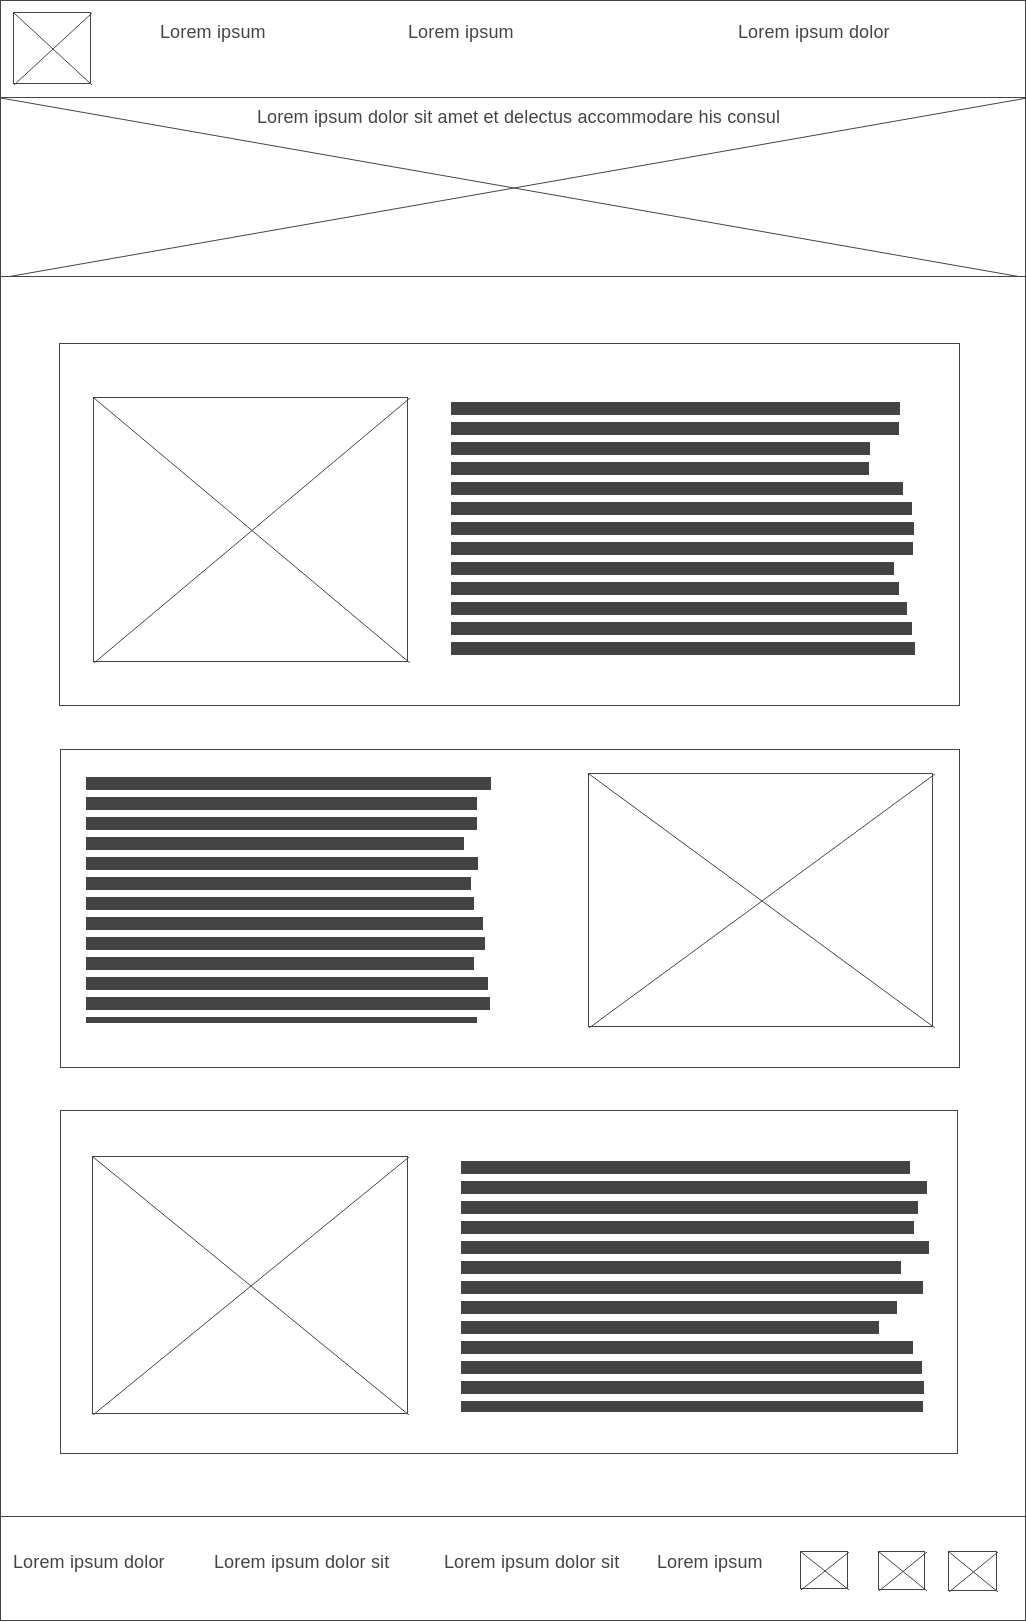
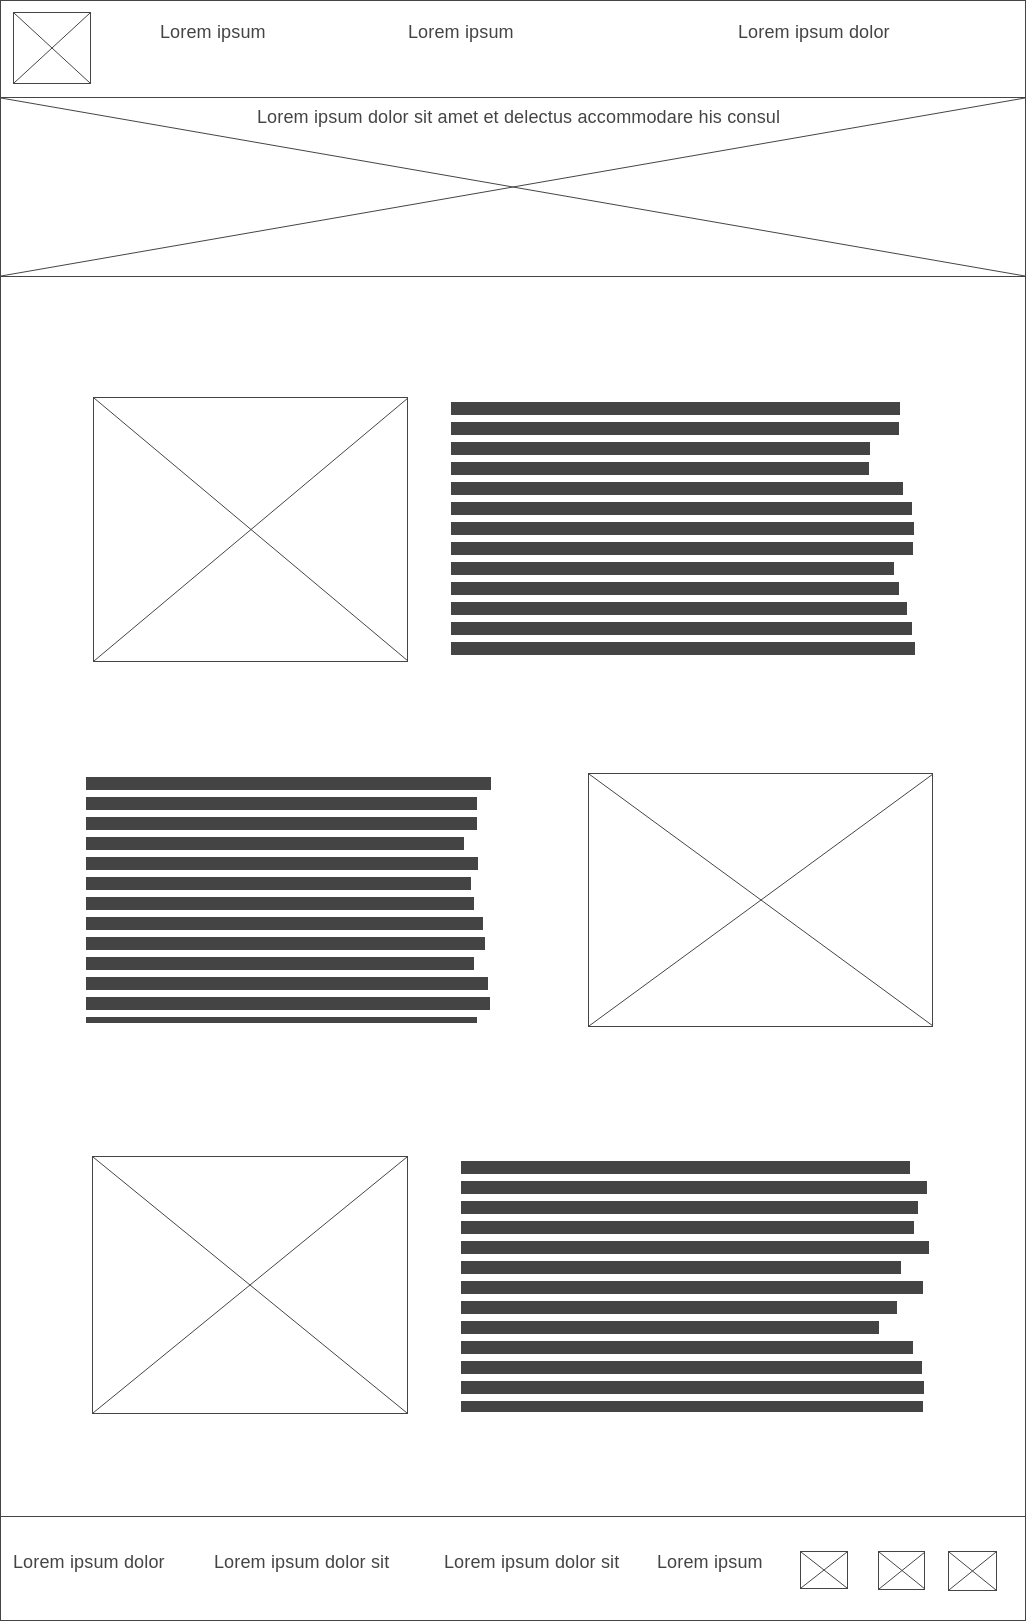
Uploading final changes

Changed region(s): [[0.5302, 0.0925, 0.5614, 0.1233], [0.4366, 0.0925, 0.4678, 0.1233]]

diff --git a/tutoring/services-offered.html b/tutoring/services-offered.html
@@ -10,7 +10,7 @@
     <div   id="content">
         <header>
             <a id="logo_link"  href="index.html" >
-                <img class="logo" src="images\tutoring.png" alt="Gloria Droguett English Tutoring">
+                <img class="logo" src="images/tutoring.png" alt="Gloria Droguett English Tutoring">
     
             </a>
     
@@ -26,30 +26,31 @@
 
         <div  id="hero">
             <div    id ="hero-box">
-                <img  id="hero-img" src="images\services-offered-hero.jpg" alt="image for Services offered">
+                <img  id="hero-img" src="images/services-offered-hero.jpg" alt="image for Services offered">
                 
             </div>
             <section id="hero-msg">
                 <h1 class="faq-title"> Some of the services that I offer  </h1>
-                <p>
-                    Hi, my name is Gloria Droguett, I am a Teacher of English with several years of experience teaching children, teens and even adults to improve their English level.
-                    Whether you need to improve your grades in school, learn the language from zero, learn it for your work or prepare an Test, I'll be able to help you improve.
-                  </p>
+                
             </section>
             
         </div>
 
-        <main clas="mercury">
+        <main class="services-offered">
             
-            <img id="image-children" src="images\girl_board.jpg" alt="image for Services offered">
-            <section id="children-box">
-                <p> Classes for children	  </p>
-                
-                <p>
-                    I have prepared and participated in the creation of plans and programs, approved by the MINEDUC, which are being implemented in various educational establishments throughout the country.
-                    So I am very familiar with the plans and programs that are used in various schools and how and what to teach little children
-                  </p>
-            </section>
+            
+                <img id="image-children" src="images/girl_board.jpg" alt="image for Services offered">
+                <section id="children-box">
+                    <h2 class="question"> Classes for children	  </h2>
+                    
+                    <p>
+                        I have prepared and participated in the creation of plans and programs, approved by the MINEDUC, which are being implemented in various educational establishments throughout the country.
+                        So I am very familiar with the plans and programs that are used in various schools and how and what to teach little children
+                    </p>
+                </section>
+
+            
+            
             
             
 
@@ -57,7 +58,7 @@
             
 
             <section id="adult-box">
-                <p> Classes for adults	  </p>
+                <h3 class="question"> Classes for adults	  </h3>
             
             <p>
                 Many adults feel the need to learn or improve their English level in their careers.
@@ -65,14 +66,14 @@
             </p>
             
             </section>
-            <img id="image-adults"  src="images\green_hoodie.jpg" alt="image for Services offered">
+            <img id="image-adults"  src="images/green_hoodie.jpg" alt="image for Services offered">
 
 
 
 
-            <img id="image-tests" src="images\exam_time.jpg" alt="image for Services offered">
+            <img id="image-tests" src="images/exam_time.jpg" alt="image for Services offered">
             <section id="tests-box">
-                <p> Preparation for standarized tests  </p>
+                <h4 class="question"> Preparation for standarized tests  </h4>
             <p>
                 Many students who wish to apply to foreign programs need to pass some standarized English tests. This tests meassure their English skills with a variety of intentions.
                 For example, TOEIC measures your ability to work in English while the TOEFL measures your ability to take university courses in English.

diff --git a/tutoring/styles/styles.css b/tutoring/styles/styles.css
@@ -72,45 +72,57 @@ nav {
 }
 
 
-.mercury{
+.services-offered{
     display: grid;
     grid-template-columns: 1fr 1fr 1fr 1fr;
     grid-template-rows: 1fr 1fr 1fr 1fr 1fr 1fr;
-    color: pink;
+    background-color: #0D1321;
+    padding: 2em;
+    
 }
 
 #image-children{
     grid-column: 1/3;
     grid-row: 1/3;
     max-width: 50%;
+    align-self: center;
 }
 
 #image-adults{
     grid-column: 3/5;
     grid-row: 3/5;
     max-width: 50%;
+    align-self: center;
 }
 
 #image-tests{
     grid-column: 1/3;
     grid-row: 5/7;
     max-width: 50%;
+    align-self: center;
 }
 
 
-#children-box{
+#children-box {
     grid-column: 3/5;
     grid-row: 1/3;
+    color: #F0EBD8;
+   
+    
 }
 
-#adult-box{
+#adult-box {
     grid-column: 1/3;
     grid-row: 3/5;
+    color: #F0EBD8;    
 }
 
-#tests-box{
+
+
+#tests-box {
     grid-column: 3/5;
     grid-row: 5/7;
+    color: #F0EBD8;    
 }
 
 .faq-grid{
